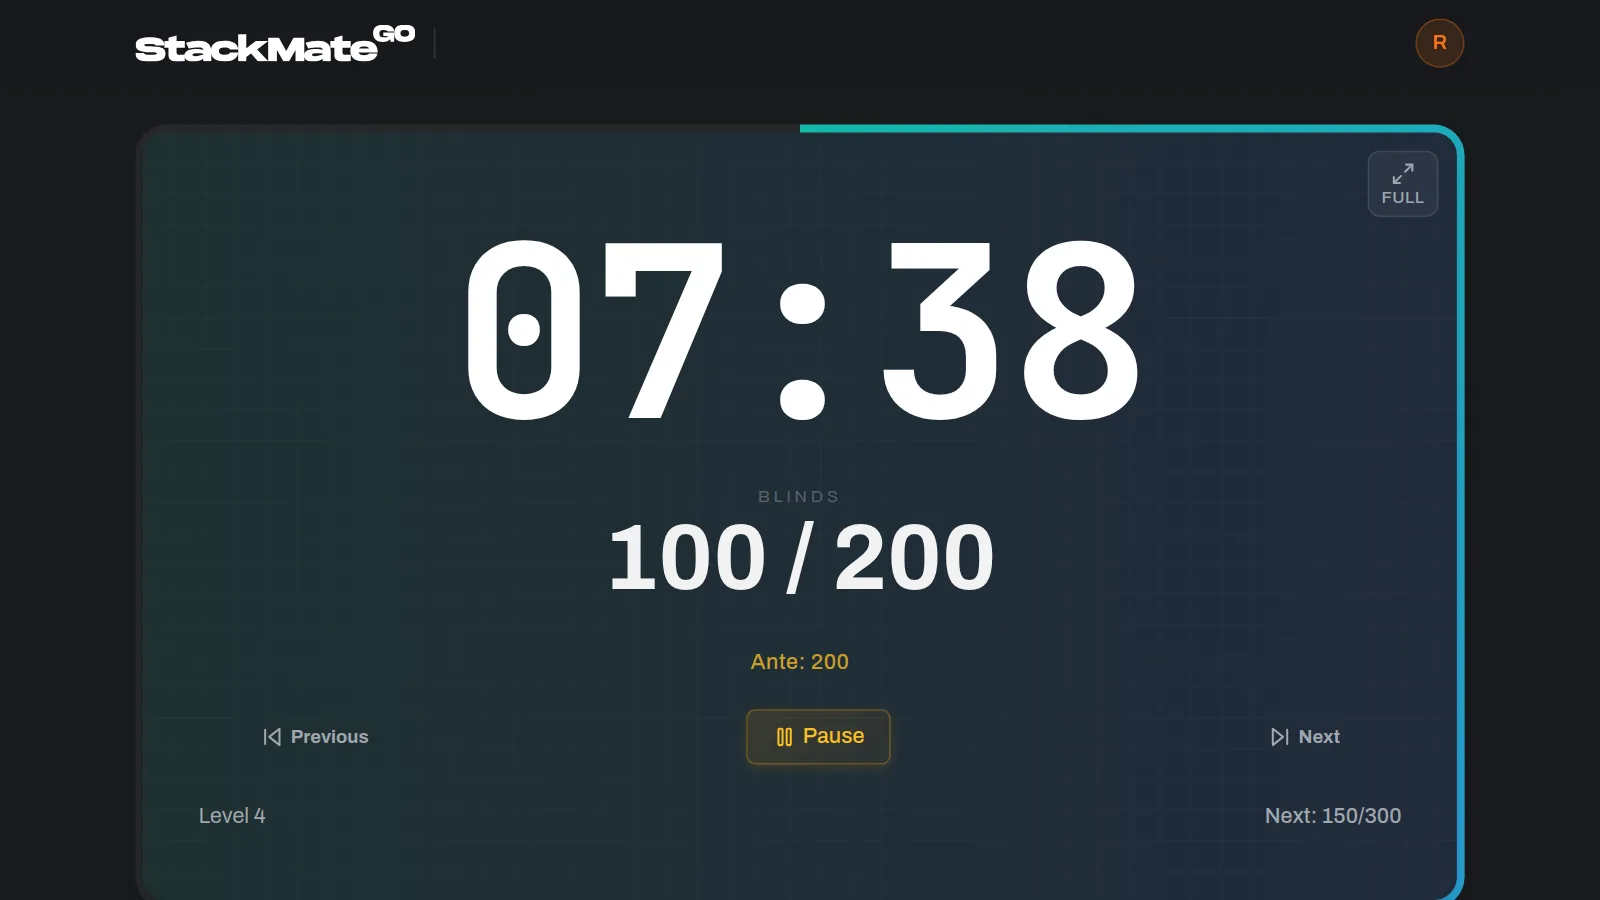
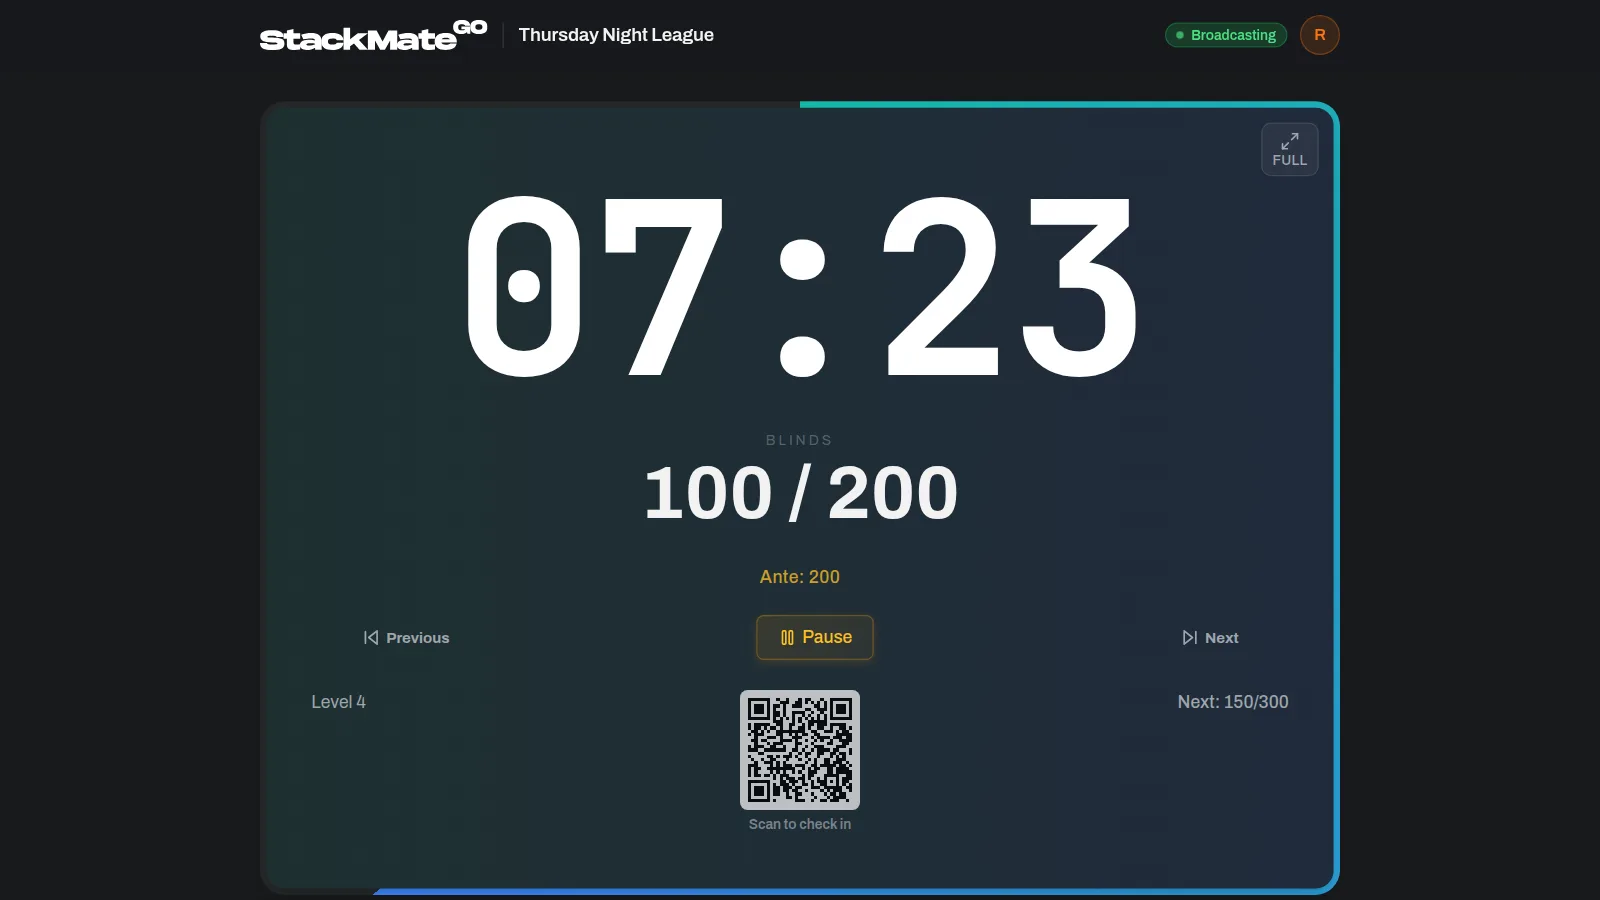
Landing page: QR on the hero, and a row of set-up screenshots
The hero is now a published league game, so the timer card shows the QR
code players scan. Below the standings, one quiet row of three set-up
shots: seating, the season form with its calendar open and the games
counted, and the league's Stats column picker. All are the app's own
screens with invented data.

Claude-Session: https://claude.ai/code/session_013Z1Aj4UyHVBUY4oEM3jtj3

diff --git a/client/src/components/ComingSoonGate.tsx b/client/src/components/ComingSoonGate.tsx
@@ -229,7 +229,7 @@ export default function ComingSoonGate({ children }: { children: React.ReactNode
             eager
             src="/shots/console.webp"
             aspect="16 / 9"
-            alt="The director’s console four levels in: the clock running, the ring around it showing how much of the level is gone, blinds and ante"
+            alt="The director’s console four levels in: the clock running inside a ring that fills as the level goes, blinds and ante, and the QR code players scan to follow the game"
             caption="The console, four levels in."
           />
         </header>
@@ -257,6 +257,32 @@ export default function ComingSoonGate({ children }: { children: React.ReactNode
             alt="A player’s phone during a league game: their table and seat, the live clock, and the night’s payouts"
             caption="What the code opens — and it keeps moving."
           />
+        </section>
+
+        <section className="flex flex-col gap-4">
+          <p className="font-mono text-caption uppercase tracking-[0.08em] text-muted-foreground">
+            Set up once
+          </p>
+          <div className="grid gap-6 sm:grid-cols-3">
+            <Shot
+              src="/shots/seating.webp"
+              aspect="4 / 3"
+              alt="The Seating tab: two tables of eight, every player in a numbered seat with a KO button"
+              caption="Seat everyone in one press, and move them by hand."
+            />
+            <Shot
+              src="/shots/season-dates.webp"
+              aspect="4 / 3"
+              alt="Setting up a new season: a date range with the calendar open, Thursdays ticked, and the twelve games in that range counted"
+              caption="Seasons by game count or by dates — the games are counted for you."
+            />
+            <Shot
+              src="/shots/stats.webp"
+              aspect="4 / 3"
+              alt="The league’s Stats settings: the standings columns ticked on and off, each with arrows to reorder it"
+              caption="Pick the columns your league cares about."
+            />
+          </div>
         </section>
 
         <footer className="border-t border-border/40 pt-8 flex flex-wrap gap-x-6 gap-y-2 items-baseline">

diff --git a/CLAUDE.md b/CLAUDE.md
@@ -3766,6 +3766,22 @@ the participant view's first read is a REST GET that must fail as a 503, not a n
 never attaches the listener. Capture at the device-pixel size and encode WebP in Chrome; each file is
 under 50KB.
 
+**The hero shows the QR code, and that needed a SAVED, PUBLISHED game.** `TimerCard` draws it only
+for `details.id && isPublished !== false`, so the hero seeds a published `activeTournaments` document
+owned by the stub director and opens it at `/tournament/{id}/director` — offline, that is enough for
+the QR and the Broadcasting chip. The code encodes a `localhost` URL; nobody can tell from a picture.
+
+**Below the standings, ONE row of three set-up shots** (`seating.webp`, `season-dates.webp`,
+`stats.webp`, 4:3 each) under a single "Set up once" eyebrow, stacked on a phone. A row of three is
+the ceiling for this page — a fourth is a pillar's worth of attention and should replace one. Traps
+from taking them: the season form is Pro-gated, so route `/api/payments-status` to
+`{"enabled":false}` (every registered user is Pro then); a date box shows US order unless the
+**process** runs with `LANG=en_GB.UTF-8` — Playwright's `locale` does not reach it; the context needs
+`colorScheme: 'dark'` or the native calendar renders light; and once that calendar is open,
+Playwright's `page.screenshot` hangs, so capture through CDP's `Page.captureScreenshot` with the scale
+set by `--force-device-scale-factor` rather than the context's `deviceScaleFactor`, which CDP
+ignores.
+
 **The trust line leads with credibility, never with failure.** A draft was headed *"Built by people
 who have lost a tournament"* — which reads to someone arriving cold as *lost tournament data*, the
 one thing this category of software must never do. It says "made by people who know poker, and know
